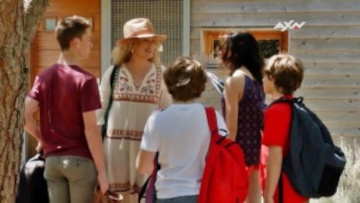
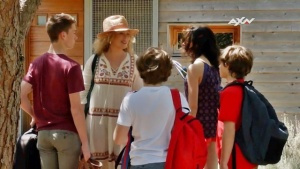
Substituição img;
menor porém não está borrada;

diff --git a/desafios/projeto-candice/index.html b/desafios/projeto-candice/index.html
@@ -20,19 +20,27 @@
             <section class="artigo">
                 <p>
                     Pensa em uma mulher inteligente... Aposto que pensou em todas né! Pois é disso mesmo que o seriado que iremos abordar nesse site trata. Tudo inicia-se com a chegada de Candice Renoir e de seus filhos na Vila de Sète perto de Montpeller no sul da França, sendo uma mulher recém divorciada e mãe de quatro filhos.
+                    <div></div>
+                </p>
+                <p>
                     Nessa nova realidade Candice leva para seu novo lar o desafio de retornar para o mercado de trabalho, depois de 10 anos sem exercer sua profissão, a melhor parte é que sua antiga profissão e tudo o que ela havia conquistado, possibilitou sua volta como chefe de investigação da policia de Séte. Já deu pra imaginar a confusão?? rsrs
                 </p>
+                
                 <div>Foto</div>
             </section>
             <section class="artigo">
                 <p>
-                    Todos do Departamento de policia inclusive da equipe de investigação que passou a ser comandada por Candice, acreditam que ela não é capaz e portanto não merece ocupar o cargo para o qual foi designada, talvez por ter mais de quarenta anos e todos de sua equipe serem bem mais novos, ou ainda, por ser uma mãe divorciada, tendo que dividir sua rotina entre investigar homicidios e cuidar dos filhos e por fim temos a junção de todas as opções anteriores somadas ao fato de que além de ser uma mulher mais velha a muito tempo não atuava como policial e em contra partida há o Capitão Dumar, que tem a admiração de todos do departamento de Policia de Séte, um homem bem mais novo, com toda a força que a juventude pode oferecer, que antes da chegada de Candice já tinha sido reconhecido por todos do departamento como o chefe de investigações.
-                </p>
-                <div>Foto</div>
+                    Todos do Departamento de policia inclusive da equipe de investigação que passou a ser comandada por Candice, acreditam que ela não é capaz e portanto não merece ocupar o cargo para o qual foi designada, talvez por ter mais de quarenta anos e todos de sua equipe serem bem mais novos, ou ainda, por ser uma mãe divorciada, tendo que dividir sua rotina entre investigar homicidios e cuidar dos filhos.
+                    <div></div>
+                </p> 
+                <P>
+                    Por fim temos a junção de todas as opções anteriores somadas ao fato de que além de ser uma mulher mais velha a muito tempo não atuava como policial e em contra partida há o Capitão Dumar, que tem a admiração de todos do departamento de Policia de Séte, um homem bem mais novo, com toda a força que a juventude pode oferecer, que antes da chegada de Candice já tinha sido reconhecido por todos do departamento como o chefe de investigações.
+                    <div></div>
+                </P>
             </section>
             <section class="artigo">
                 <p>
-                    Nesse cenário, os desafios que Candice Renoir terá que enfrentar já foram pré-estabelecidos sem que ela pudesse ao menos dizer uma única palavra, cabe agora provar que todos estão errados por duvidarem da sua capacidade, para isso Candice vai utilizar o que possui de melhor: sua força mental e a capacidade de observar os casos de homicidios por um angulo completamente diferente. O mais legal é que muitas teorias que elucidam os casos surgem da convivência diaria com seus filhos, muitas vezes inspiradas por confusões e bagunças que uma Mãe resolve diariamente quando os filhos estão na infância e na adolecência.
+                    Nesse cenário, os desafios que Candice Renoir terá que enfrentar já foram pré-estabelecidos sem que ela pudesse ao menos dizer uma única palavra, cabe agora a ela provar que todos estão errados por duvidarem da sua capacidade, para isso Candice vai utilizar o que possui de melhor: sua força mental e a capacidade de observar os casos de homicidios por um angulo completamente diferente. O mais legal é que muitas teorias que elucidam os casos surgem da convivência diaria com seus filhos, muitas vezes inspiradas por confusões e bagunças que uma Mãe resolve diariamente quando os filhos estão na infância e na adolecência.
                     <div>Fonto</div>
                 </p>
             </section>
